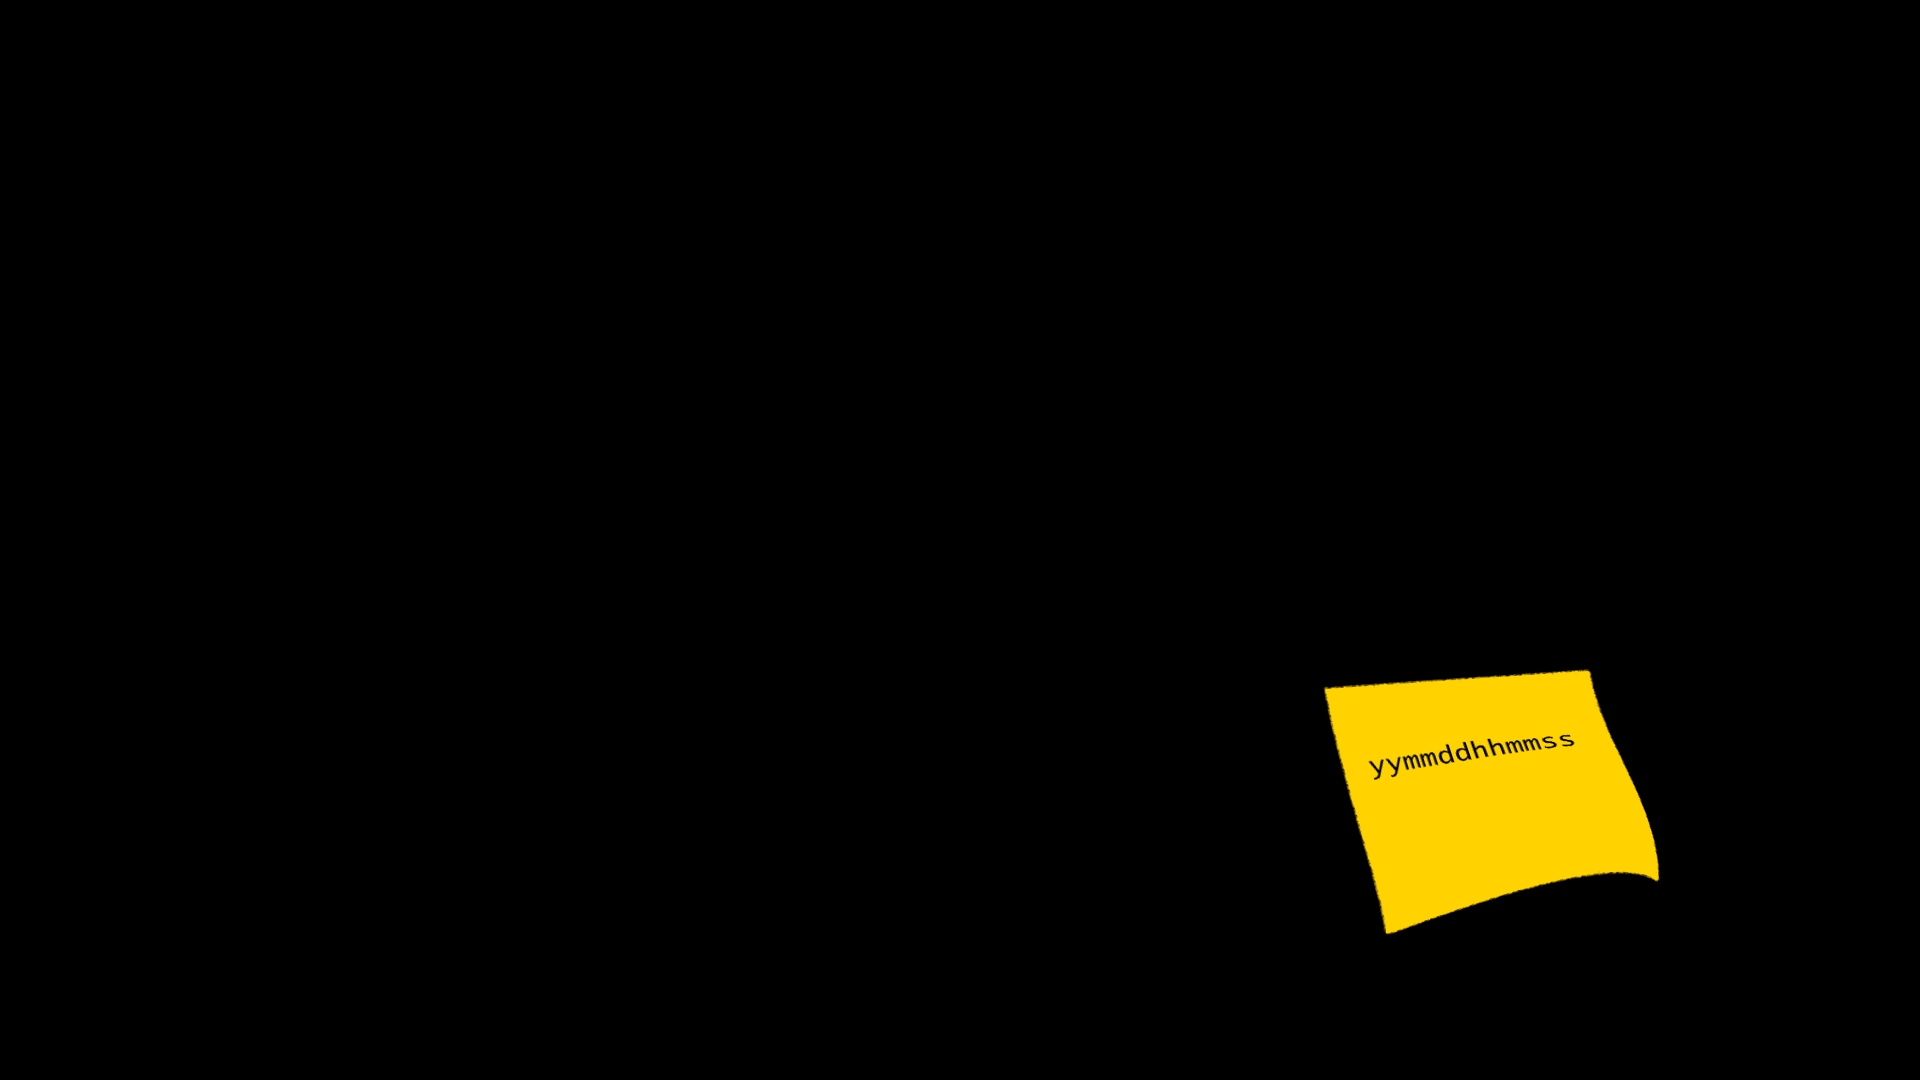
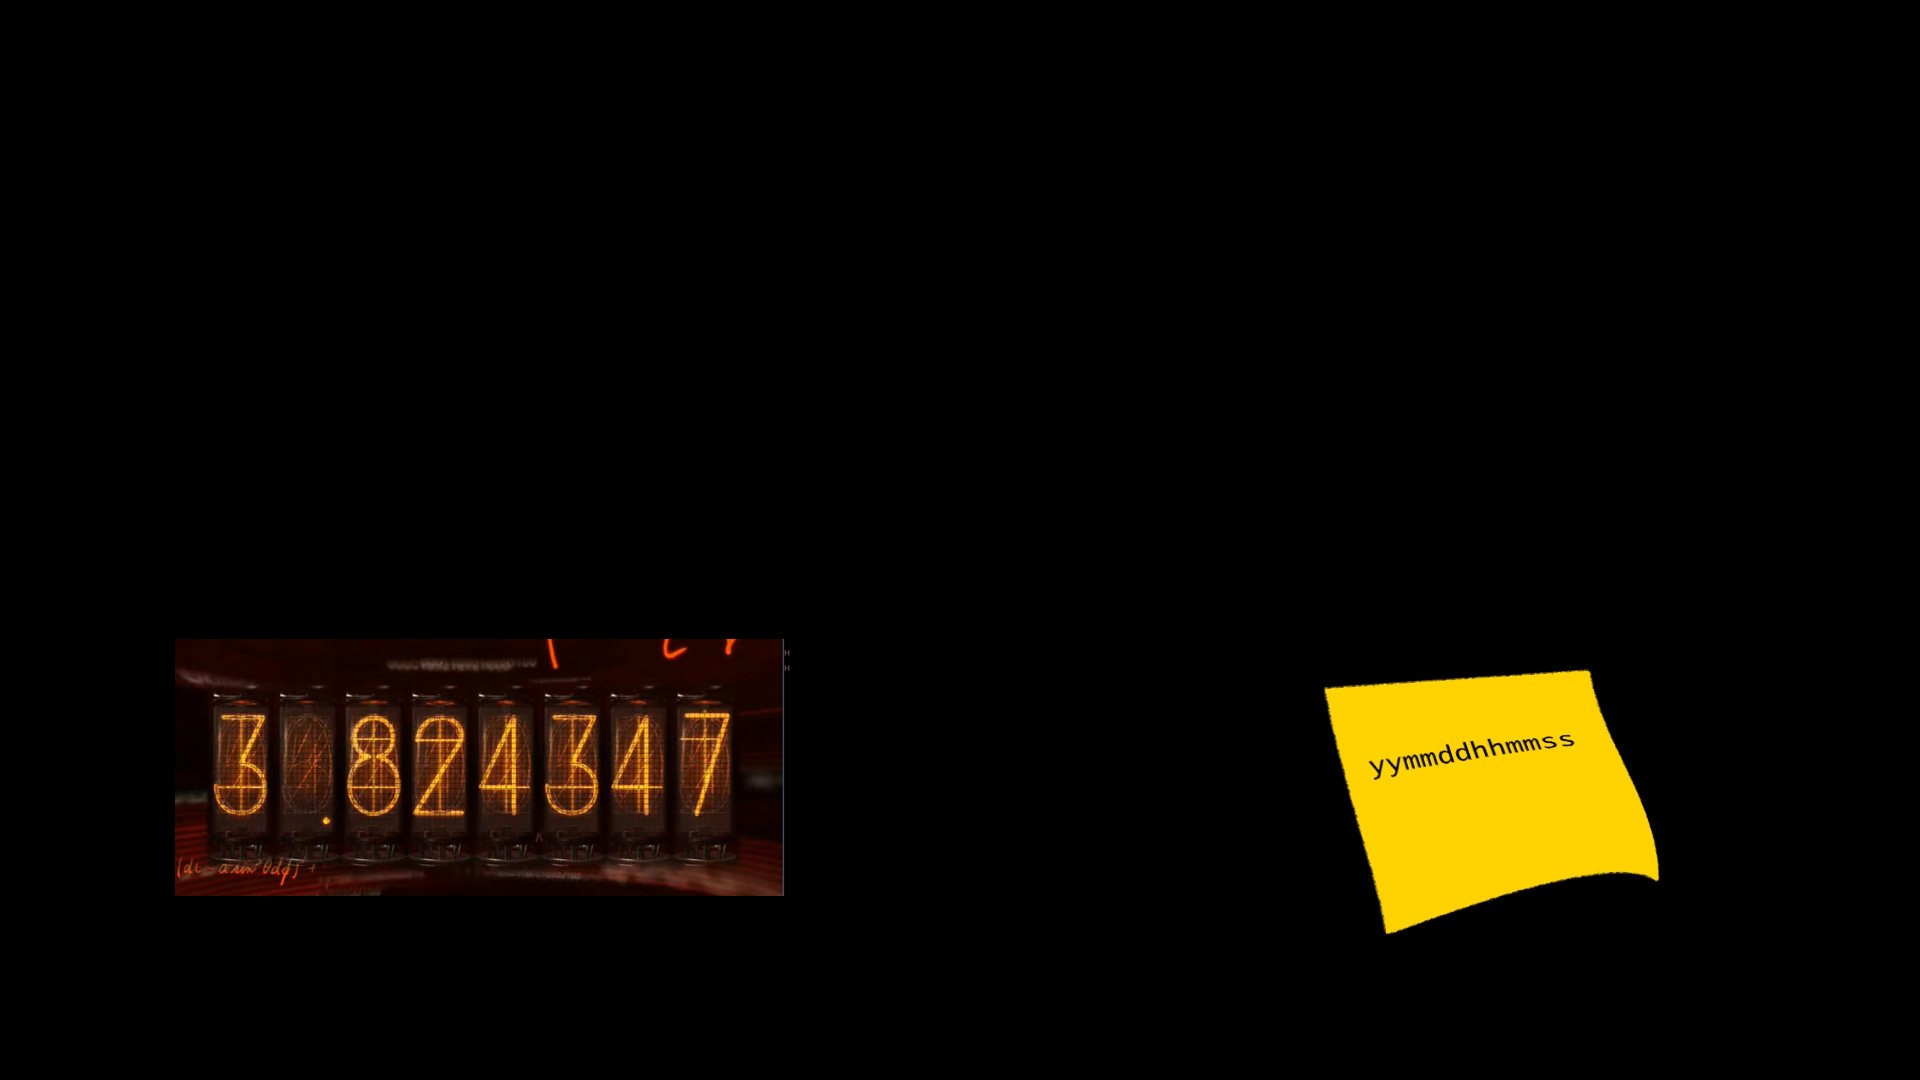
more css tweaks

Changed region(s): [[0.0938, 0.5806, 0.4062, 0.8556]]

diff --git a/src/css/HOAI.css b/src/css/HOAI.css
@@ -1,12 +1,15 @@
 :root {
-  --light-blur: 0.6rem;
+  --light-blur: 1.5rem; /*blur value for the digits*/
 }
 
 
 body, html {
-  height: 100%;
+  height: 90%;
+  width: 100%;
   margin: 0;
+  background-color: rgb(255, 255, 255);
   background-image: url('../img/bg-post-it.jpg');
+  background-size: contain;
   
 }
 .header-text {
@@ -27,11 +30,13 @@ body, html {
   font-family: 'Courier New', Courier, monospace;
   color: #ffc400;
   /*text-shadow: 2px 2px 0.07em orange, -2px -2px 0.07em orange,  -3px 3px 0.06em orange,  3px -3px 0.06em orange;*/
-  text-shadow: orange 0 0 var(--light-blur), orange 0 0 var(--light-blur), orange 0 0 var(--light-blur), orange 0 0 var(--light-blur);
-  
-  border-radius: 10%;
+  text-shadow: orange 0 0 var(--light-blur), orange 0 0 var(--light-blur), orange 0 0 var(--light-blur);
+
+  border-radius: 15%;
 }
 
 .nixie-tube-glass {
-  background-color: rgba(196, 196, 196, 0.153);
+  margin-left: 2px;
+  background-color: rgba(255, 255, 255, 0);
+  box-shadow: inset rgba(128, 83, 0, 0.544) 0 0 var(--light-blur);
 }

diff --git a/src/pages/HOAI.js b/src/pages/HOAI.js
@@ -6,7 +6,7 @@ import { differenceInMilliseconds, differenceInMonths } from 'date-fns';
 
 const TimePassed = () => {
   const [timePassed, setTimePassed] = useState('');
-
+  document.title = `HOAI`
   const calculateTimePassed = () => {
     const secondsInMs = 1000;
     const minutesInMs = secondsInMs * 60;
@@ -40,7 +40,7 @@ const TimePassed = () => {
   };
 
   useEffect(() => {
-    const intervalId = setInterval(calculateTimePassed, 333);
+    const intervalId = setInterval(calculateTimePassed, 200);
 
     return () => {
       clearInterval(intervalId);
